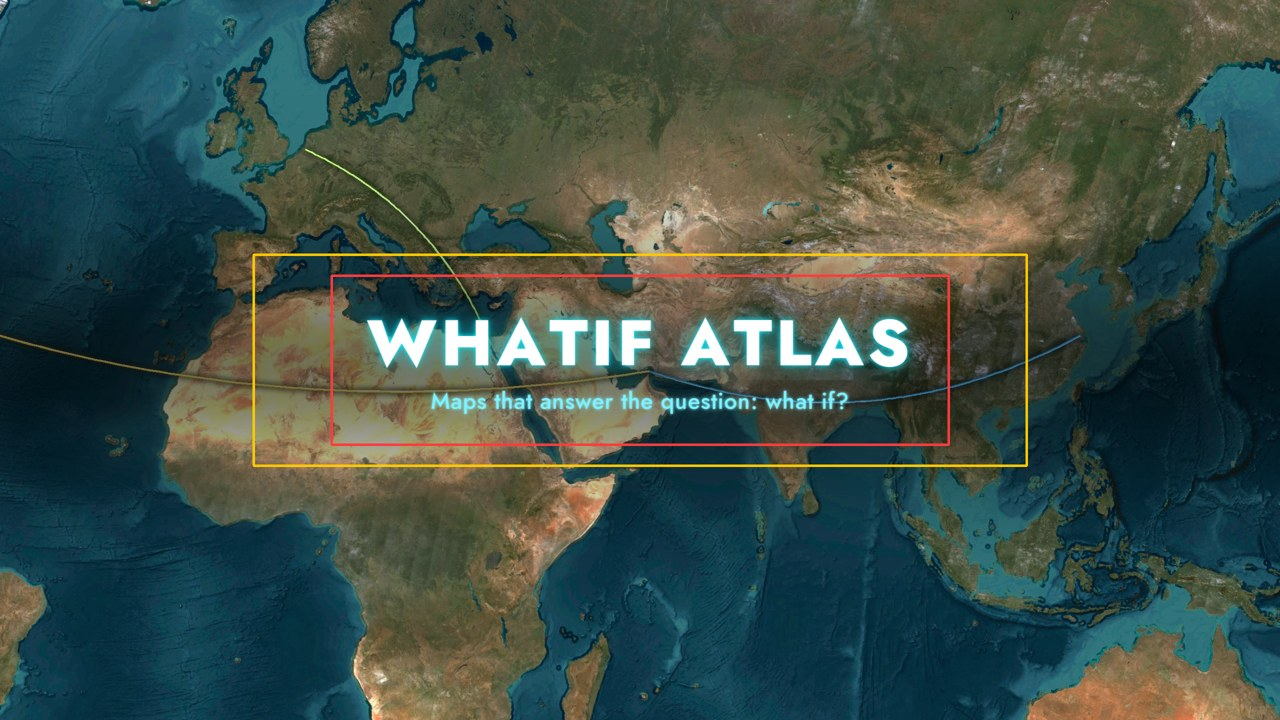
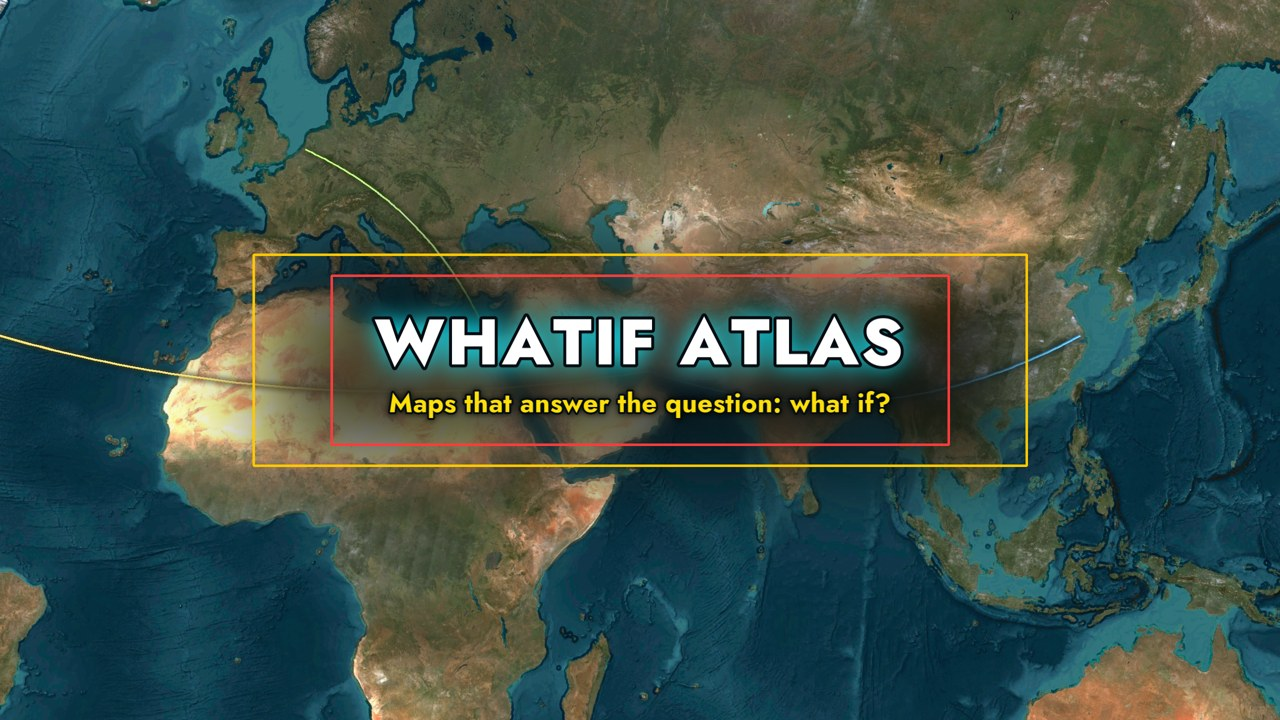
Channel art: frosted scrim, outlined title, yellow tagline for legibility
Claude-Session: https://claude.ai/code/session_0138F5K3cFyqxK7uQUdCPQ6Y

Changed region(s): [[0.0, 0.3361, 0.75, 0.6722], [0.7812, 0.3056, 1.0, 0.6722]]

diff --git a/whatif_engine/tools/brand_assets.py b/whatif_engine/tools/brand_assets.py
@@ -90,19 +90,54 @@ def map_backdrop(W, H, lon_c=55, lat_c=28, width_km=19000):
     return np.asarray(pil.convert("RGB")).astype(np.float32) / 255
 
 
+def outlined_text(text, size, fill, stroke_px, glow_hex=None, family="jost", weight=800, tracking=0.04):
+    """Big legible text: dark outline + soft dark shadow + optional coloured glow (RGBA float)."""
+    f = font(family, size * 2, weight); asc, desc = f.getmetrics(); pad = int(size * 0.9)
+    xs, x = [], 0.0
+    for ch in text:
+        xs.append(x); x += f.getlength(ch) + tracking * size * 2
+    Wt, Ht = int(x + 2 * pad), asc + desc + 2 * pad
+    body = Image.new("L", (Wt, Ht)); strk = Image.new("L", (Wt, Ht))
+    for i, ch in enumerate(text):
+        ImageDraw.Draw(strk).text((pad + xs[i], pad), ch, font=f, fill=255, stroke_width=stroke_px * 2, stroke_fill=255)
+        ImageDraw.Draw(body).text((pad + xs[i], pad), ch, font=f, fill=255)
+    b = cv2.resize(np.asarray(body, np.float32) / 255, (Wt // 2, Ht // 2), interpolation=cv2.INTER_AREA)
+    st = cv2.resize(np.asarray(strk, np.float32) / 255, (Wt // 2, Ht // 2), interpolation=cv2.INTER_AREA)
+    shadow = cv2.GaussianBlur(st, (0, 0), size * 0.12) * 0.85
+    col = np.array([int(fill[i:i + 2], 16) for i in (1, 3, 5)], np.float32) / 255
+    rgb = np.zeros(b.shape + (3,), np.float32); a = np.maximum(shadow, st)
+    if glow_hex:
+        g = cv2.GaussianBlur(st, (0, 0), size * 0.18) * 0.9
+        gc = np.array([int(glow_hex[i:i + 2], 16) for i in (1, 3, 5)], np.float32) / 255
+        rgb += gc * (g * (1 - st))[..., None]; a = np.maximum(a, g)
+    rgb = rgb + np.array([0.02, 0.05, 0.07]) * (st * (1 - b))[..., None] + col * b[..., None]
+    a = np.clip(a, 0, 1)
+    rgb = rgb / np.maximum(a[..., None], 1e-4)
+    return np.concatenate([np.clip(rgb, 0, 1), a[..., None]], 2).astype(np.float32)
+
+
+def scrim(img, cx, cy, w, h, strength=0.72, blur=18):
+    """frosted dark band behind the title: blur the map there and darken it, soft edges."""
+    H_, W_ = img.shape[:2]
+    m = np.zeros((H_, W_), np.float32)
+    cv2.rectangle(m, (int(cx - w / 2), int(cy - h / 2)), (int(cx + w / 2), int(cy + h / 2)), 1.0, -1)
+    m = cv2.GaussianBlur(m, (0, 0), h * 0.22)[..., None]
+    bl = cv2.GaussianBlur(img, (0, 0), blur)
+    return img * (1 - m) + bl * (1 - strength) * m
+
+
 def title_block(img, cx, cy, scale):
-    t1 = static_glow_text(NAME.upper(), int(150 * scale), "#FFFFFF", family="jost", weight=800, tracking=0.06, glow="#06EBFF", s1=6 * scale, s2=26 * scale)
-    blit_sub(img, t1, cx, cy - 40 * scale)
-    t2 = static_glow_text(TAG, int(54 * scale), "#7FF3FF", family="jost", weight=500, tracking=0.02, s1=3, s2=10, a2=0.35)
-    blit_sub(img, t2, cx, cy + 95 * scale)
+    t1 = outlined_text(NAME.upper(), int(150 * scale), "#FFFFFF", max(4, int(7 * scale)), glow_hex="#06EBFF")
+    blit_sub(img, t1, cx, cy - 42 * scale)
+    t2 = outlined_text(TAG, int(62 * scale), "#FFDF0A", max(3, int(5 * scale)), family="jost", weight=700, tracking=0.01)
+    blit_sub(img, t2, cx, cy + 100 * scale)
 
 
 # YouTube banner 2560x1440, everything important inside central 1235x338 (strictest safe area)
 W, H = 2560, 1440
 yb = map_backdrop(W, H)
 yy, xx = np.mgrid[0:H, 0:W].astype(np.float32)
-band = np.exp(-((yy - H / 2) / 260) ** 2)[..., None]                  # darken centre band for text contrast
-yb = yb * (1 - 0.55 * band)
+yb = scrim(yb, W / 2, H / 2 + 10, 1500, 430)
 title_block(yb, W / 2, H / 2, 0.86)
 save(yb, "youtube_banner_2560x1440.jpg")
 guide = (np.clip(yb, 0, 1) * 255).astype(np.uint8).copy()
@@ -114,7 +149,6 @@ Image.fromarray(guide).resize((1280, 720)).save(os.path.join(OUT, "cek_zona_aman
 W, H = 1702, 630
 fb = map_backdrop(W, H, lon_c=60, lat_c=30, width_km=17000)
 yy, xx = np.mgrid[0:H, 0:W].astype(np.float32)
-band = np.exp(-((yy - H * 0.45) / 170) ** 2)[..., None]
-fb = fb * (1 - 0.55 * band)
+fb = scrim(fb, W * 0.56, H * 0.46, 1250, 360)
 title_block(fb, W * 0.56, H * 0.45, 0.8)
 save(fb, "facebook_cover_1702x630.jpg")
